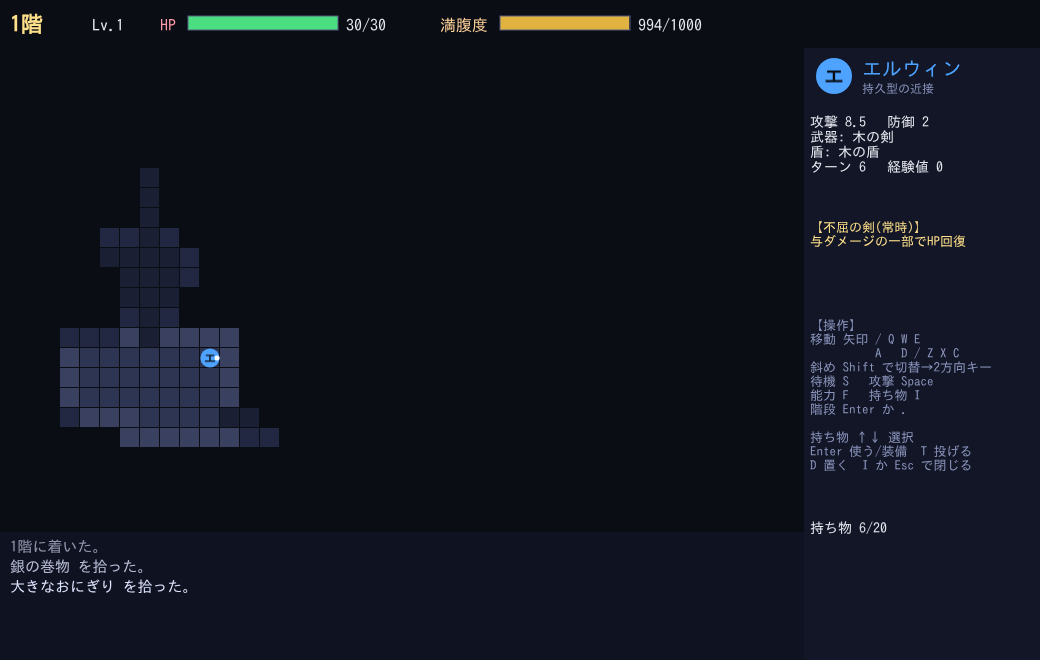
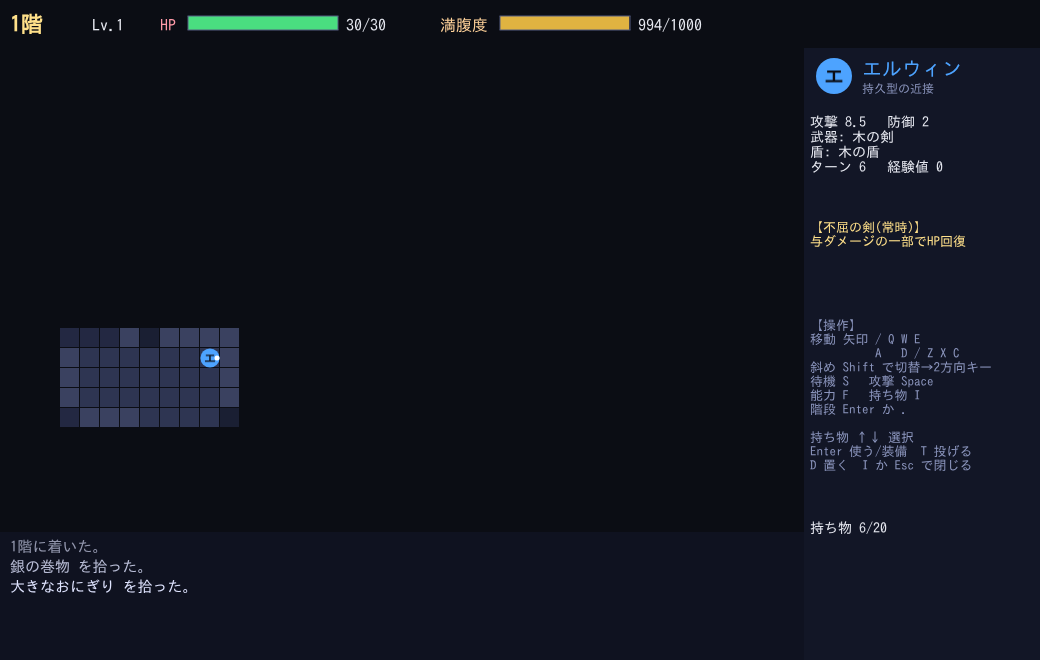
通路では自分の周り1マスしか見えない扱いにし、遠距離攻撃は同じ部屋の中だけに
Claude-Session: https://claude.ai/code/session_01CApP844H6gPytoXvYh9u8m

Changed region(s): [[0.0923, 0.2424, 0.2154, 0.5152], [0.0923, 0.6061, 0.2769, 0.697]]

diff --git a/src/core/game.ts b/src/core/game.ts
@@ -351,19 +351,52 @@ export class Game {
     return -1;
   }
 
+  /**
+   * その座標が属する「エリア」。部屋の中、または部屋にじかにつながる出入口なら部屋の番号。
+   * 通路なら -1。
+   */
+  areaAt(x: number, y: number): number {
+    const i = this.roomIndexAt(x, y);
+    if (i >= 0) return i;
+    if (this.tile(x, y) === WALL) return -1;
+    for (const [dx, dy] of [[0, -1], [1, 0], [0, 1], [-1, 0]]) {
+      const j = this.roomIndexAt(x + dx, y + dy);
+      if (j >= 0) return j;
+    }
+    return -1;
+  }
+
+  /**
+   * プレイヤーに見えるマスか。
+   * 部屋の中(出入口を含む)では、その部屋と周りの壁がまるごと見える。
+   * 通路では、自分の周り1マスしか見えない。
+   */
   canSee(x: number, y: number): boolean {
     const p = this.player;
-    if (Math.max(Math.abs(x - p.x), Math.abs(y - p.y)) > 9) return false;
+    const d = Math.max(Math.abs(x - p.x), Math.abs(y - p.y));
+    if (d <= 1) return true;
+    const a = this.areaAt(p.x, p.y);
+    if (a < 0 || d > 12) return false;
+    const r = this.map.rooms[a];
+    if (x < r.x - 1 || x > r.x + r.w || y < r.y - 1 || y > r.y + r.h) return false;
     return this.los(p.x, p.y, x, y);
+  }
+
+  /** 敵がプレイヤーに気づくか。同じ部屋で見通せるか、すぐ隣にいるときだけ。通路では隣のマスしか気づかない。 */
+  private monsterNotices(m: Monster, d: number): boolean {
+    if (d <= 1) return true;
+    const p = this.player;
+    const a = this.areaAt(p.x, p.y);
+    return a >= 0 && a === this.areaAt(m.x, m.y) && this.los(m.x, m.y, p.x, p.y);
   }
 
   updateSeen() {
     if (!this.trackSeen) return;
     const p = this.player;
-    for (let y = Math.max(0, p.y - 9); y <= Math.min(H - 1, p.y + 9); y++) {
-      for (let x = Math.max(0, p.x - 9); x <= Math.min(W - 1, p.x + 9); x++) {
+    for (let y = Math.max(0, p.y - 12); y <= Math.min(H - 1, p.y + 12); y++) {
+      for (let x = Math.max(0, p.x - 12); x <= Math.min(W - 1, p.x + 12); x++) {
         if (this.seen[y * W + x]) continue;
-        if (this.los(p.x, p.y, x, y)) this.seen[y * W + x] = 1;
+        if (this.canSee(x, y)) this.seen[y * W + x] = 1;
       }
     }
   }
@@ -1032,7 +1065,7 @@ export class Game {
       if (d > 16) continue;
       if (!field) field = this.distField(p.x, p.y, 16, this.monField);
       const fv = field[m.y * W + m.x];
-      if (fv >= 0 && fv <= 9 && this.los(m.x, m.y, p.x, p.y)) m.alerted = true;
+      if (this.monsterNotices(m, d)) m.alerted = true;
       else if (fv < 0 || fv > 14) m.alerted = false;
       if (!m.alerted) {
         if (this.rng.chance(0.4)) this.randomStep(m);
@@ -1055,9 +1088,9 @@ export class Game {
     const ai = m.def.ai;
     const adj = d === 1 && this.canStep(m.x, m.y, Math.sign(p.x - m.x), Math.sign(p.y - m.y));
     if (adj) { this.monsterMelee(m); return; }
-    // 遠距離攻撃は、同じ部屋にいる間(通路どうしの場合も)だけ撃てる。部屋を出れば逃げられる。
-    const lineOk = d >= 2 && this.isAligned(m) && this.los(m.x, m.y, p.x, p.y) && this.canSee(m.x, m.y) &&
-      this.roomIndexAt(m.x, m.y) === this.roomIndexAt(p.x, p.y);
+    // 遠距離攻撃は、同じ部屋にいる間だけ撃てる。通路では隣のマスしか見えない扱いなので撃てない。
+    const pa = this.areaAt(p.x, p.y);
+    const lineOk = d >= 2 && pa >= 0 && pa === this.areaAt(m.x, m.y) && this.isAligned(m) && this.los(m.x, m.y, p.x, p.y);
     if ((ai === 'ranged' || ai === 'mage') && lineOk && d <= m.def.range) {
       this.fx.push({ type: 'bolt', x: m.x, y: m.y, x2: p.x, y2: p.y });
       if (ai === 'ranged') this.hitPlayer(m, 1, false, `${m.def.name}の矢が飛んできた!`);

diff --git a/test/core.test.ts b/test/core.test.ts
@@ -384,14 +384,60 @@ describe('遠距離攻撃は部屋を出れば逃げられる', () => {
     }
   });
 
-  it('通路どうしでは真っ直ぐ撃たれる', () => {
+  it('通路では敵の遠距離攻撃を受けない(通路は自分の周り1マスしか見えない扱い)', () => {
     const g = arena('elwin');
     g.map.rooms = [{ x: 2, y: 2, w: 4, h: 4 }];
     g.player.x = 15;
-    put(g, 'archer', 19, 5);
+    put(g, 'archer', 19, 5, { atk: 50 });
     const hp = g.player.hp;
     g.act({ t: 'wait' });
-    expect(g.player.hp).toBeLessThan(hp);
+    expect(g.player.hp).toBe(hp);
+  });
+});
+
+describe('通路では自分の周り1マスしか見えない', () => {
+  it('通路では隣のマスだけ、部屋の中では部屋全体が見える', () => {
+    const g = arena('elwin');
+    g.map.rooms = [{ x: 2, y: 2, w: 10, h: 10 }]; // 部屋は x2〜11
+    g.player.x = 5;
+    g.player.y = 5;
+    expect(g.canSee(11, 5)).toBe(true); // 同じ部屋の端
+    expect(g.canSee(16, 5)).toBe(false); // 部屋の外の通路
+    g.player.x = 15; // 通路
+    expect(g.areaAt(15, 5)).toBe(-1);
+    expect(g.canSee(16, 5)).toBe(true);
+    expect(g.canSee(18, 5)).toBe(false);
+    expect(g.canSee(8, 5)).toBe(false); // 部屋の中も、通路からは見えない
+  });
+
+  it('部屋の出入口に立つと、部屋の中が見える', () => {
+    const g = arena('elwin');
+    g.map.rooms = [{ x: 2, y: 2, w: 10, h: 10 }];
+    g.player.x = 12;
+    g.player.y = 5;
+    expect(g.areaAt(12, 5)).toBe(0);
+    expect(g.canSee(5, 5)).toBe(true);
+  });
+
+  it('通路にいるプレイヤーには、離れた敵は気づかず、隣に来て初めて気づく', () => {
+    const g = arena('elwin');
+    g.map.rooms = [{ x: 2, y: 2, w: 4, h: 4 }];
+    g.player.x = 15;
+    g.player.y = 5;
+    const far = put(g, 'goblin', 21, 5, { alerted: false });
+    g.act({ t: 'wait' });
+    expect(far.alerted).toBe(false);
+    const near = put(g, 'goblin', 16, 5, { alerted: false });
+    g.act({ t: 'wait' });
+    expect(near.alerted).toBe(true);
+  });
+
+  it('同じ部屋の敵には、離れていても気づかれる', () => {
+    const g = arena('elwin');
+    g.map.rooms = [{ x: 2, y: 2, w: 10, h: 10 }];
+    const m = put(g, 'goblin', 10, 5, { alerted: false });
+    g.act({ t: 'wait' });
+    expect(m.alerted).toBe(true);
   });
 });
 

diff --git a/scripts/shots.ts b/scripts/shots.ts
@@ -94,6 +94,17 @@ async function main() {
   if (after.x !== before.x + 1 || after.y !== before.y - 1) throw new Error(`斜め移動に失敗: ${JSON.stringify(before)} → ${JSON.stringify(after)}`);
   await shot('03c_diagonal_moved');
 
+  // 3d. 通路では自分の周り1マスしか見えない
+  await startRun(1);
+  await stage(`let f = null;
+    for (let y = 1; y < 23 && !f; y++) for (let x = 2; x < 38; x++) {
+      if (g.tiles[y * 40 + x] === 1 && g.areaAt(x, y) === -1 && g.tiles[y * 40 + x + 1] === 1 && g.tiles[y * 40 + x - 1] === 1 && g.areaAt(x + 1, y) === -1 && g.areaAt(x - 1, y) === -1) { f = { x, y }; break; }
+    }
+    g.monsters = []; if (f) { p.x = f.x; p.y = f.y; g.seen.fill(0); }`);
+  const corr = await page.evaluate(`window.__app.game.areaAt(window.__app.game.player.x, window.__app.game.player.y)`);
+  if (corr !== -1) throw new Error('通路に立てなかった');
+  await shot('03d_corridor_view');
+
   // 4. 戦闘中
   await stage(`g.monsters = []; carve(p.x + 1, p.y); carve(p.x + 2, p.y); carve(p.x - 1, p.y);
     spawn('goblin', p.x + 1, p.y, { hp: 40, maxHp: 40, sleep: 0 }); spawn('slime', p.x - 1, p.y);

diff --git a/src/scenes/DungeonScene.ts b/src/scenes/DungeonScene.ts
@@ -143,9 +143,9 @@ export class DungeonScene extends Phaser.Scene {
     const g = this.dg;
     const p = g.player;
     this.vis.fill(0);
-    for (let y = Math.max(0, p.y - 9); y <= Math.min(H - 1, p.y + 9); y++) {
-      for (let x = Math.max(0, p.x - 9); x <= Math.min(W - 1, p.x + 9); x++) {
-        if (g.los(p.x, p.y, x, y)) this.vis[y * W + x] = 1;
+    for (let y = Math.max(0, p.y - 12); y <= Math.min(H - 1, p.y + 12); y++) {
+      for (let x = Math.max(0, p.x - 12); x <= Math.min(W - 1, p.x + 12); x++) {
+        if (g.canSee(x, y)) this.vis[y * W + x] = 1;
       }
     }
   }

diff --git a/DESIGN.md b/DESIGN.md
@@ -66,10 +66,18 @@
 - ボットは投げない(ボット検証の数値はボットの簡易ルール基準のまま)。数値目標は通っている(クリア率8〜21%、最大差13ポイント)
 
 ## 遠距離攻撃と斜め移動(プレイした人の感想を受けた修正)
-- 部屋を出るだけでは弓兵・魔術師・竜の炎から逃げられないとの指摘があった。原因は、通路が部屋の中央から真っ直ぐ伸びていて、部屋を出ても敵と同じ列に並びやすいこと。遠距離攻撃(矢・魔法・竜の炎)は「同じ部屋の中にいるとき」と「通路どうしのとき」だけ撃てるようにした(`Game.roomIndexAt`)。部屋から通路へ出れば、部屋の中の敵は撃てず、追いかけてくる
+- 部屋を出るだけでは弓兵・魔術師・竜の炎から逃げられないとの指摘があった。原因は、通路が部屋の中央から真っ直ぐ伸びていて、部屋を出ても敵と同じ列に並びやすいこと。遠距離攻撃(矢・魔法・竜の炎)は「同じ部屋の中にいるとき」だけ撃てるようにした(`Game.roomIndexAt`)。部屋から通路へ出れば、部屋の中の敵は撃てず、追いかけてくる(通路どうしでも撃てない: 次の節)
 - 最初は「敵からの視線とプレイヤー画面の視界のずれ」が原因と考えて対応したが、矢などは必ず縦・横・斜めに一直線に並ぶときだけ飛ぶので、そのずれは起きないと分かった。無害なので判定には残してある
 - 斜め移動が難しいとの指摘で、斜めモードを追加した(`src/core/diag.ts`)。Shiftキーで切替(押すたびにON/OFF。400ミリ秒より長く押し続けた場合は、離したときに元へ戻る=押している間だけ斜め)。モード中は方向キー(矢印/WAXD)を2つ押すと斜めに進み、1つだけでは動かない。同じ向きの軸を続けて押すと最初のキーを入れ替え、2秒たつと最初のキーは無効。モード中も QEZC は斜めに進む。画面右上に「斜めモード ON」と、1つ目を押した後の案内を出す
 - ボット検証は再実行し、数値目標を通っている(クリア率18〜38%、最大差20ポイント)。遠距離攻撃が弱まったぶんクリア率が上がった
+
+## 通路は自分の周り1マスしか見えない(プレイした人の感想を受けた修正)
+- 通路で弓兵・魔術師に出会うと逃げ場がなくて困るとの指摘で、通路では「自分の周り1マスしか見えていない」扱いにした。見え方と敵の行動の両方に適用する(`Game.areaAt` / `canSee` / `monsterNotices`)
+  - 見え方: 部屋の中(出入口のマスを含む)ではその部屋と周りの壁がまるごと見える。通路では隣の8マスだけ。部屋の中から通路の奥は見えず、通路から部屋の中も見えない
+  - 敵が気づく条件: 同じ部屋で見通せるとき、または隣のマスにいるとき。通路では、隣に来るまで気づかない。いったん気づいた敵は、従来どおり追ってくる
+  - 遠距離攻撃(矢・魔法・竜の炎): 同じ部屋にいるときだけ。通路では撃てない。直前の「通路どうしでは撃たれる」は取りやめた
+- 「出入口」は、部屋の床に縦か横で直接つながる通路のマス(部屋の一部として扱う)
+- ボット検証は再実行し、数値目標を通っている(クリア率17〜35%、最大差18ポイント)
 
 ## スクショについて
 - 全画面を `npm run shots` で撮れた(14枚)。撮れなかった画面はない

diff --git a/CHECKLIST.md b/CHECKLIST.md
@@ -4,9 +4,9 @@
 
 ## 完了条件
 - [x] 1. ビルドが通る / `npm run build` → `tsc --noEmit` エラーなし、`vite build` が `✓ built in 1.12s` で完了(dist/ 出力)
-- [x] 2. 自動テストが通る / `npm test` → `Test Files 1 passed (1) / Tests 35 passed (35)`。固有能力5つ(エルウィン回復・バラージ2回行動とCD・シオン魔法とMP・フェイト範囲とHP消費・クレイド鑑定と罠発見)と、同時ターン・満腹度・未鑑定アイテム・罠(地雷/眠りガス/落とし穴)を含む
-- [x] 3. ボット検証の数値目標を満たす / `npm run bot` → クリア率 エルウィン38%・バラージ18%・シオン30%・フェイト18%・クレイド23%(全員5〜70%)、最大差20ポイント(≤40)、平均到達階 8.92〜9.30(≥4)、20000ターン超過0件・クラッシュ0件、`判定: 合格`
-- [x] 4. スクショが全て保存されている / `npm run shots` → screenshots/ に18枚(01_title, 02_charselect, 03_exploring_floor1, 04_battle, 05〜09の固有能力5枚, 09a/10 クレイドの鑑定前後, 10b/10c 投げる操作, 03b/03c 斜めモード, 11_boss, 12_gameover, 13_clear)。撮れなかった画面なし
+- [x] 2. 自動テストが通る / `npm test` → `Test Files 1 passed (1) / Tests 39 passed (39)`。固有能力5つ(エルウィン回復・バラージ2回行動とCD・シオン魔法とMP・フェイト範囲とHP消費・クレイド鑑定と罠発見)と、同時ターン・満腹度・未鑑定アイテム・罠(地雷/眠りガス/落とし穴)を含む
+- [x] 3. ボット検証の数値目標を満たす / `npm run bot` → クリア率 エルウィン27%・バラージ17%・シオン35%・フェイト22%・クレイド20%(全員5〜70%)、最大差18ポイント(≤40)、平均到達階 8.69〜9.33(≥4)、20000ターン超過0件・クラッシュ0件、`判定: 合格`
+- [x] 4. スクショが全て保存されている / `npm run shots` → screenshots/ に19枚(01_title, 02_charselect, 03_exploring_floor1, 04_battle, 05〜09の固有能力5枚, 09a/10 クレイドの鑑定前後, 10b/10c 投げる操作, 03b/03c 斜めモード, 03d 通路の見え方, 11_boss, 12_gameover, 13_clear)。撮れなかった画面なし
 - [x] 5. このチェックリストの全項目が埋まっている / 下記の機能欄も全て確認済み
 
 ## 機能
@@ -21,7 +21,7 @@
 - [x] 死亡で最初からやり直し / test「死亡するとゲームオーバー」、ゲームオーバー画面→Enterでキャラ選択へ(`src/scenes/EndScenes.ts`)。スクショ 12_gameover
 - [x] タイトル画面 / キャラ選択画面 / スクショ 01_title, 02_charselect(各キャラの能力説明つき)
 - [x] アイテムを投げる・睡眠草 / test「睡眠草: 食べると3ターン眠り、投げると敵が3ターン眠って殴っても起きない」「投げる: 毒草は敵にダメージ、外れたアイテムは床に落ちる」、スクショ 10b_throw_prompt, 10c_throw_sleep
-- [x] 遠距離攻撃は部屋を出れば逃げられる / test「遠距離攻撃は部屋を出れば逃げられる」3件
+- [x] 遠距離攻撃は部屋を出れば逃げられる・通路では自分の周り1マスしか見えない / test「遠距離攻撃は部屋を出れば逃げられる」3件、「通路では自分の周り1マスしか見えない」4件、スクショ 03d_corridor_view
 - [x] 斜めモード(Shift + 2方向キー) / test「斜め入力」4件、`npm run shots` が実ブラウザで斜め移動を確認(03b/03c)
 - [x] エルウィンの固有能力 / test + 05_ability_elwin
 - [x] バラージの固有能力 / test + 06_ability_barrage
